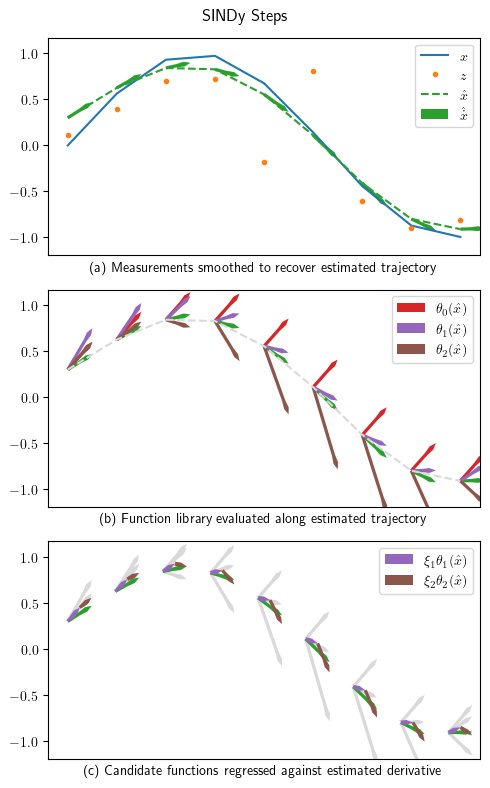
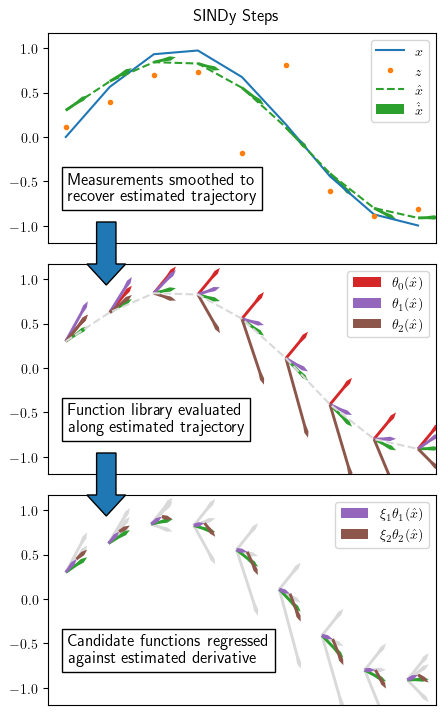
images(plotting): Add overlapping arrows

diff --git a/images/gen_image/ksindy_figs/plotting.py b/images/gen_image/ksindy_figs/plotting.py
@@ -178,9 +178,9 @@ def make_all_plots(pdat: PlotData, q_props: dict[str, Any]) -> None:
         **q_props,
     )
     ax0_text = "Measurements smoothed to \nrecover estimated trajectory"
-    text_props = {"fontsize": "large", "bbox": {"fill": False}}
+    tx_props = {"fontsize": "large", "bbox": {"fill": False}}
     text_posit = (0.05, 0.2)
-    axes[0].text(*text_posit, ax0_text, transform=axes[0].transAxes, **text_props)
+    axes[0].text(*text_posit, ax0_text, transform=axes[0].transAxes, **tx_props)
     lib_plot(
         axes[1],
         pdat.t,
@@ -193,7 +193,7 @@ def make_all_plots(pdat: PlotData, q_props: dict[str, Any]) -> None:
         **q_props,
     )
     ax1_text = "Function library evaluated \nalong estimated trajectory"
-    axes[1].text(*text_posit, ax1_text, transform=axes[1].transAxes, **text_props)
+    axes[1].text(*text_posit, ax1_text, transform=axes[1].transAxes, **tx_props)
     soln_plot(
         axes[2],
         pdat.t,
@@ -207,5 +207,18 @@ def make_all_plots(pdat: PlotData, q_props: dict[str, Any]) -> None:
         **q_props,
     )
     ax2_text = "Candidate functions regressed \nagainst estimated derivative"
-    axes[2].text(*text_posit, ax2_text, transform=axes[2].transAxes, **text_props)
-    fig.tight_layout()
+    axes[2].text(*text_posit, ax2_text, transform=axes[2].transAxes, **tx_props)
+    # Make arrows from one axis overlap next
+    axes[1].set_zorder(-1)
+    axes[2].set_zorder(-2)
+    arrow_shape = (0.15, 0.13, 0, -0.2)
+    arrow_props = {
+        "clip_on": False,
+        "width": 0.05,
+        "head_width": 0.1,
+        "head_length": 0.1,
+        "zorder": 100,
+    }
+    axes[0].arrow(*arrow_shape, transform=axes[0].transAxes, **arrow_props)
+    axes[1].arrow(*arrow_shape, transform=axes[1].transAxes, **arrow_props)
+    fig.subplots_adjust(hspace=0.1, top=0.95)
